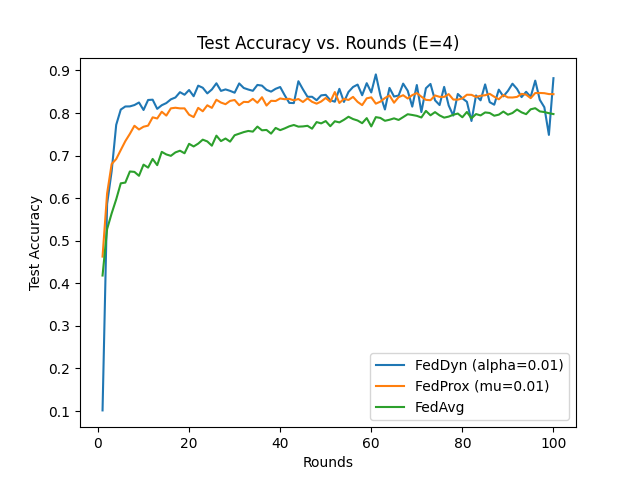
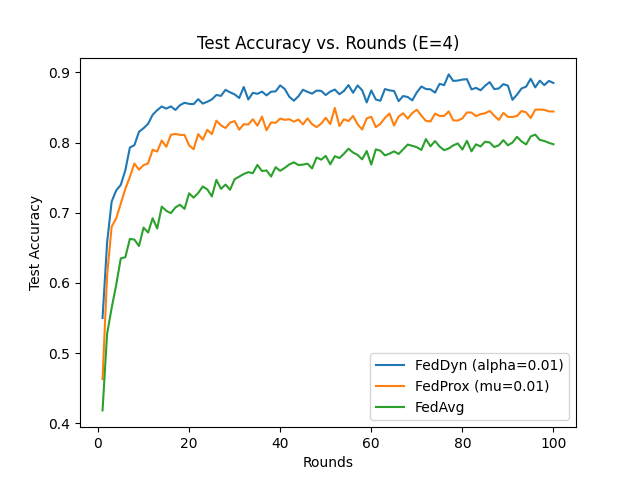
feddyn algorithm correction
The FedDyn algorithm does not send out the same model for training as it uses for evaluation.
This is now implemented in this PR.

The labels will be changed to type long before being sent to the loss function in order to avoid NaN values as output.

Lastly, the FedDynRegularizer class now has a .to(device) function in order to transfer the information as needed for subprocesses that use the GPU.

diff --git a/lib/python/flame/mode/horizontal/feddyn/top_aggregator.py b/lib/python/flame/mode/horizontal/feddyn/top_aggregator.py
@@ -16,10 +16,13 @@
 """FedDyn horizontal FL top level aggregator."""
 
 import logging
+from copy import deepcopy
+import time
 
 from flame.common.util import (MLFramework, get_ml_framework_in_use,
-                            weights_to_device)
+                            weights_to_device, weights_to_model_device)
 from flame.common.constants import (DeviceType, TrainState)
+from flame.optimizer.train_result import TrainResult
 from flame.mode.composer import Composer
 from flame.mode.message import MessageType
 from flame.mode.tasklet import Loop, Tasklet
@@ -30,6 +33,8 @@ logger = logging.getLogger(__name__)
 TAG_DISTRIBUTE = 'distribute'
 TAG_AGGREGATE = 'aggregate'
 TAG_GET_DATATSET_SIZE = 'getDatasetSize'
+
+PROP_ROUND_END_TIME = "round_end_time"
 
 class TopAggregator(BaseTopAggregator):
     """FedDyn Top level Aggregator implements an ML aggregation role."""
@@ -52,6 +57,62 @@ class TopAggregator(BaseTopAggregator):
             self._aggregate_weights(tag)
         elif tag == TAG_GET_DATATSET_SIZE:
             self.get_dataset_size(tag)
+    
+    def _aggregate_weights(self, tag: str) -> None:
+        channel = self.cm.get_by_tag(tag)
+        if not channel:
+            return
+
+        total = 0
+
+        # receive local model parameters from trainers
+        for msg, metadata in channel.recv_fifo(channel.ends()):
+            end, timestamp = metadata
+            if not msg:
+                logger.debug(f"No data from {end}; skipping it")
+                continue
+
+            logger.debug(f"received data from {end}")
+            channel.set_end_property(end, PROP_ROUND_END_TIME, (round, timestamp))
+
+            if MessageType.WEIGHTS in msg:
+                weights = weights_to_model_device(msg[MessageType.WEIGHTS], self.model)
+
+            if MessageType.DATASET_SIZE in msg:
+                count = msg[MessageType.DATASET_SIZE]
+
+            if MessageType.DATASAMPLER_METADATA in msg:
+                self.datasampler.handle_metadata_from_trainer(
+                    msg[MessageType.DATASAMPLER_METADATA],
+                    end,
+                    channel,
+                )
+
+            logger.debug(f"{end}'s parameters trained with {count} samples")
+
+            if weights is not None and count > 0:
+                total += count
+                tres = TrainResult(weights, count)
+                # save training result from trainer in a disk cache
+                self.cache[end] = tres
+
+        # optimizer conducts optimization (in this case, aggregation)
+        global_weights = self.optimizer.do(
+            deepcopy(self.cld_weights),
+            self.cache,
+            total=total,
+            num_trainers=len(channel.ends()),
+        )
+        if global_weights is None:
+            logger.debug("failed model aggregation")
+            time.sleep(1)
+            return
+
+        # set global weights
+        self.weights = global_weights
+
+        # update model with global weights
+        self._update_model()
 
     def get_dataset_size(self, tag: str) -> None:
         logger.debug("calling get_dataset_size")
@@ -96,12 +157,16 @@ class TopAggregator(BaseTopAggregator):
         weight_dict = {end:(self.dataset_sizes[end]/total_samples) * num_trainers for end in self.dataset_sizes}
         
         logger.debug(f"weight_dict: {weight_dict}")
+        
+        self.cld_weights = self.optimizer.cld_model
+        if self.cld_weights == None:
+            self.cld_weights = self.weights
 
         # send out global model parameters to trainers
         for end in channel.ends():
             logger.debug(f"sending weights to {end}")
             channel.send(end, {
-                MessageType.WEIGHTS: weights_to_device(self.weights, DeviceType.CPU),
+                MessageType.WEIGHTS: weights_to_device(self.cld_weights, DeviceType.CPU),
                 MessageType.ROUND: self._round,
                 MessageType.ALPHA_ADPT: self.optimizer.alpha / weight_dict.get(end, 1)
             })

diff --git a/lib/python/examples/medmnist_feddyn/trainer/main.py b/lib/python/examples/medmnist_feddyn/trainer/main.py
@@ -13,10 +13,7 @@
 # limitations under the License.
 #
 # SPDX-License-Identifier: Apache-2.0
-"""MedMNIST FedProx trainer for PyTorch Using Proximal Term."""
-
-
-
+"""MedMNIST FedDyn trainer for PyTorch."""
 
 import logging
 
@@ -72,8 +69,6 @@ class PathMNISTDataset(torch.utils.data.Dataset):
         elif self.split == 'test':
             self.imgs = npz_file['test_images']
             self.labels = npz_file['test_labels']
-        else:
-            raise ValueError
 
     def __len__(self):
         return self.imgs.shape[0]
@@ -99,13 +94,14 @@ class PyTorchMedMNistTrainer(Trainer):
         self.dataset_size = 0
 
         self.model = None
-        self.device = torch.device("cpu")
+        self.device = torch.device("cuda" if torch.cuda.is_available() else "cpu")
 
         self.train_loader = None
         self.val_loader = None
 
         self.epochs = self.config.hyperparameters.epochs
         self.batch_size = self.config.hyperparameters.batch_size
+        self.lr = self.config.hyperparameters.learning_rate
         self._round = 1
         self._rounds = self.config.hyperparameters.rounds
 
@@ -113,8 +109,8 @@ class PyTorchMedMNistTrainer(Trainer):
         """Initialize role."""
 
         self.model = CNN(num_classes=9).to(self.device)
-        # ensure that weight_decay = 0 for FedDyn
-        self.optimizer = torch.optim.Adam(self.model.parameters(), lr=1e-3, weight_decay=0.0)
+        # ensure that weight_decay = 0 for FedDyn if this parameter is specified in config file
+        self.optimizer = torch.optim.Adam(self.model.parameters(), lr=self.lr, weight_decay=0.0)
         self.criterion = torch.nn.CrossEntropyLoss()
 
     def load_data(self) -> None:
@@ -170,10 +166,9 @@ class PyTorchMedMNistTrainer(Trainer):
                 self.optimizer.zero_grad()
                 output = self.model(data)
                 
-                # proximal term included in loss
-                loss = self.criterion(output, label.squeeze()) + self.regularizer.get_term(curr_model = self.model, prev_model = prev_model)
+                # regularizer term included in loss
+                loss = self.criterion(output, label.reshape(-1).long()) + self.regularizer.get_term(curr_model = self.model, prev_model = prev_model)
                 
-                # back to normal stuff
                 loss_lst.append(loss.item())
                 loss.backward()
                 self.optimizer.step()
@@ -191,7 +186,7 @@ class PyTorchMedMNistTrainer(Trainer):
             for data, label in self.val_loader:
                 data, label = data.to(self.device), label.to(self.device)
                 output = self.model(data)
-                loss = self.criterion(output, label.squeeze())
+                loss = self.criterion(output, label.reshape(-1).long())
                 loss_lst.append(loss.item())
                 labels_pred = torch.cat([labels_pred, output.argmax(dim=1)], dim=0)
                 labels = torch.cat([labels, label], dim=0)

diff --git a/lib/python/flame/optimizer/feddyn.py b/lib/python/flame/optimizer/feddyn.py
@@ -46,6 +46,7 @@ class FedDyn(FedAvg):
         self.alpha = alpha
         self.weight_decay = weight_decay
         self.local_param_dict = dict()
+        self.cld_model = None
         
         # override parent's self.regularizer
         self.regularizer = FedDynRegularizer(self.alpha, self.weight_decay)
@@ -114,10 +115,10 @@ class FedDyn(FedAvg):
                 h = self.local_param_dict[end]
                 mean_local_param = {k:v + rate*h[k] for (k,v) in mean_local_param.items()}
         
-        
+        # keep this model as the initial model for the next round of training
         self.cld_model = {k:avg_model[k]+mean_local_param[k] for k in avg_model}
         
-        return self.cld_model
+        return avg_model
     
     def add_to_hist(self, end, tres):
         if end in self.local_param_dict:
@@ -130,3 +131,4 @@ class FedDyn(FedAvg):
             # case: end was not previously recorded as active trainer
             logger.debug(f"adding untracked end {end} to hist terms")
             self.local_param_dict[end] = tres.weights
+

diff --git a/lib/python/examples/medmnist_feddyn/aggregator/main.py b/lib/python/examples/medmnist_feddyn/aggregator/main.py
@@ -13,7 +13,7 @@
 # limitations under the License.
 #
 # SPDX-License-Identifier: Apache-2.0
-"""MedMNIST FedProx aggregator for PyTorch."""
+"""MedMNIST FedDyn aggregator for PyTorch."""
 
 import logging
 
@@ -131,7 +131,7 @@ class PyTorchMedMNistAggregator(TopAggregator):
         pass
 
     def evaluate(self) -> None:
-        """Evaluate (test) a model."""
+        """Evaluate a model."""
         self.model.eval()
         loss_lst = list()
         labels = torch.tensor([],device=self.device)
@@ -140,7 +140,7 @@ class PyTorchMedMNistAggregator(TopAggregator):
             for data, label in self.loader:
                 data, label = data.to(self.device), label.to(self.device)
                 output = self.model(data)
-                loss = self.criterion(output, label.squeeze())
+                loss = self.criterion(output, label.reshape(-1).long())
                 loss_lst.append(loss.item())
                 labels_pred = torch.cat([labels_pred, output.argmax(dim=1)], dim=0)
                 labels = torch.cat([labels, label], dim=0)

diff --git a/lib/python/flame/optimizer/regularizer/feddyn.py b/lib/python/flame/optimizer/regularizer/feddyn.py
@@ -77,3 +77,20 @@ class FedDynRegularizer(Regularizer):
         
         # adjust prev_grad
         self.prev_grad += (w_vector - w_t_vector)
+    
+    def to(self, device):
+        """Returns a new Regularizer that has been moved to the specified device."""
+        import torch
+        new_regularizer = FedDynRegularizer(self.alpha, self.weight_decay)
+        # state_dict
+        for key in self.state_dict:
+            new_regularizer.state_dict[key] = [param.to(device) for param in self.state_dict[key]]
+        
+        # prev_grad
+        if isinstance(self.prev_grad, torch.Tensor):
+            new_regularizer.prev_grad = self.prev_grad.to(device)
+        else:
+            new_regularizer.prev_grad = self.prev_grad
+        
+        return new_regularizer
+        
